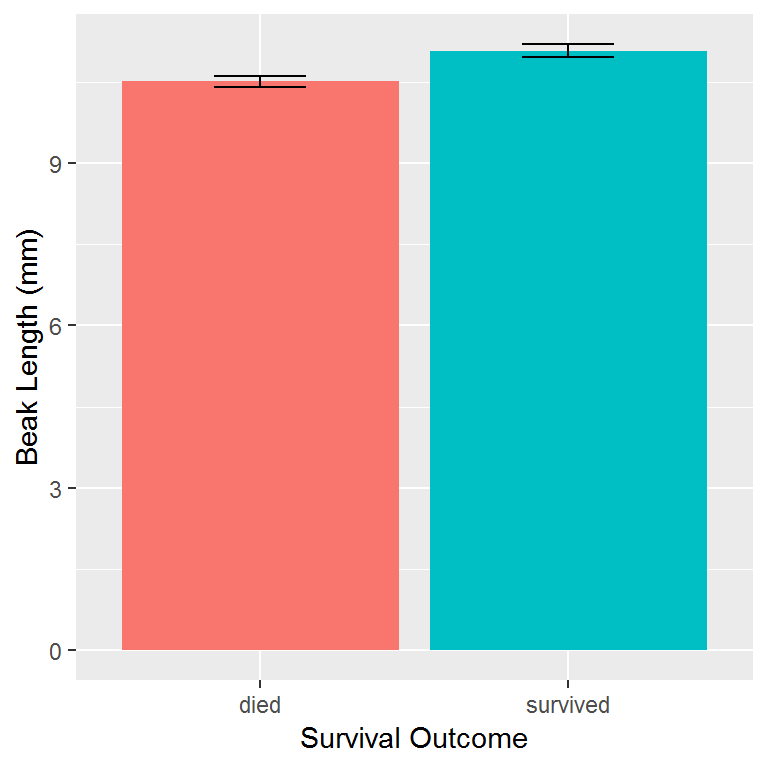
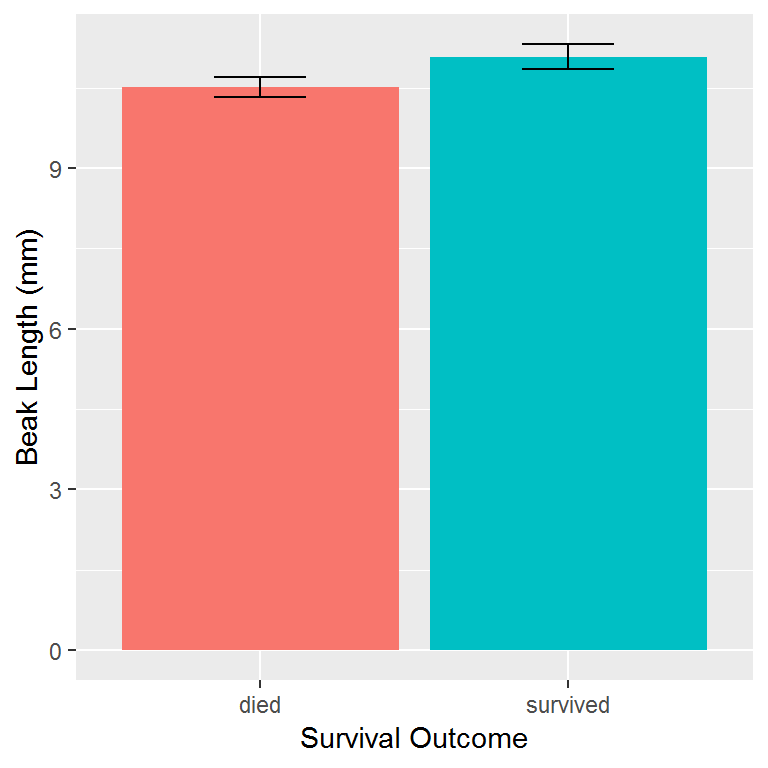
Fix confidence interval calculations

diff --git a/lab1_3_finch.html b/lab1_3_finch.html
@@ -339,12 +339,12 @@ Did beak length vary between birds that survived the drough and those that did n
 <div class="sourceCode" id="cb2"><pre class="sourceCode r"><code class="sourceCode r"><a class="sourceLine" id="cb2-1" data-line-number="1"><span class="kw">library</span>(readxl)                <span class="co"># load readxl, for reading Excel files</span></a>
 <a class="sourceLine" id="cb2-2" data-line-number="2"><span class="kw">library</span>(tidyverse)             <span class="co"># load tidyverse, for working with datasets</span></a></code></pre></div>
 <pre><code>## Warning: package &#39;tidyverse&#39; was built under R version 3.5.1</code></pre>
-<pre><code>## -- Attaching packages ---------------------- tidyverse 1.2.1 --</code></pre>
+<pre><code>## -- Attaching packages ---------------------------------------------------- tidyverse 1.2.1 --</code></pre>
 <pre><code>## v ggplot2 2.2.1.9000     v purrr   0.2.5     
 ## v tibble  1.4.2          v dplyr   0.7.5     
 ## v tidyr   0.8.1          v stringr 1.3.1     
 ## v readr   1.1.1          v forcats 0.3.0</code></pre>
-<pre><code>## -- Conflicts ------------------------- tidyverse_conflicts() --
+<pre><code>## -- Conflicts ------------------------------------------------------- tidyverse_conflicts() --
 ## x dplyr::filter() masks stats::filter()
 ## x dplyr::lag()    masks stats::lag()</code></pre>
 <p>Put your cursor on the first line and type Cmd+Enter to run it. The cursor automatically moves to the next line, so you can type Cmd+Enter again to run the next line.</p>
@@ -460,18 +460,21 @@ Did beak length vary between birds that survived the drough and those that did n
 ##  3rd Qu.:20.00   3rd Qu.:11.25   3rd Qu.:10.100   3rd Qu.: 9.055  
 ##  Max.   :21.06   Max.   :12.73   Max.   :11.210   Max.   :10.070</code></pre>
 <p>If we want to do anything more than, then we need to use functions provided in the tidyverse to summarize the data. The following code will summarize a dataset by calculating the mean, standard deviation and standard error of the mean (SEM) of the <code>beak_length</code> variable.</p>
-<div class="sourceCode" id="cb18"><pre class="sourceCode r"><code class="sourceCode r"><a class="sourceLine" id="cb18-1" data-line-number="1">summary &lt;-<span class="st"> </span>finches <span class="op">%&gt;%</span><span class="st"> </span></a>
-<a class="sourceLine" id="cb18-2" data-line-number="2"><span class="st">  </span><span class="kw">summarize</span>(<span class="dt">mean =</span> <span class="kw">mean</span>(beak_length),</a>
-<a class="sourceLine" id="cb18-3" data-line-number="3">            <span class="dt">sd =</span> <span class="kw">sd</span>(beak_length),</a>
-<a class="sourceLine" id="cb18-4" data-line-number="4">            <span class="dt">n =</span> <span class="kw">n</span>()) <span class="op">%&gt;%</span><span class="st"> </span></a>
-<a class="sourceLine" id="cb18-5" data-line-number="5"><span class="st">  </span><span class="kw">mutate</span>(<span class="dt">sem =</span> sd <span class="op">/</span><span class="st"> </span><span class="kw">sqrt</span>(n),</a>
-<a class="sourceLine" id="cb18-6" data-line-number="6">         <span class="dt">upper =</span> mean <span class="op">+</span><span class="st"> </span>sem,</a>
-<a class="sourceLine" id="cb18-7" data-line-number="7">         <span class="dt">lower =</span> mean <span class="op">-</span><span class="st"> </span>sem)</a>
-<a class="sourceLine" id="cb18-8" data-line-number="8">summary</a></code></pre></div>
+<div class="sourceCode" id="cb18"><pre class="sourceCode r"><code class="sourceCode r"><a class="sourceLine" id="cb18-1" data-line-number="1"><span class="co"># summarize the entire dataset</span></a>
+<a class="sourceLine" id="cb18-2" data-line-number="2">summary &lt;-<span class="st"> </span></a>
+<a class="sourceLine" id="cb18-3" data-line-number="3"><span class="st">  </span>finches <span class="op">%&gt;%</span><span class="st"> </span></a>
+<a class="sourceLine" id="cb18-4" data-line-number="4"><span class="st">  </span><span class="kw">summarize</span>(<span class="dt">mean =</span> <span class="kw">mean</span>(beak_length),</a>
+<a class="sourceLine" id="cb18-5" data-line-number="5">            <span class="dt">sd =</span> <span class="kw">sd</span>(beak_length),</a>
+<a class="sourceLine" id="cb18-6" data-line-number="6">            <span class="dt">n =</span> <span class="kw">n</span>()) <span class="op">%&gt;%</span><span class="st"> </span></a>
+<a class="sourceLine" id="cb18-7" data-line-number="7"><span class="st">  </span><span class="kw">mutate</span>(<span class="dt">sem =</span> sd <span class="op">/</span><span class="st"> </span><span class="kw">sqrt</span>(n),</a>
+<a class="sourceLine" id="cb18-8" data-line-number="8">         <span class="dt">upper =</span> mean <span class="op">+</span><span class="st"> </span><span class="fl">1.96</span> <span class="op">*</span><span class="st"> </span>sem,</a>
+<a class="sourceLine" id="cb18-9" data-line-number="9">         <span class="dt">lower =</span> mean <span class="op">-</span><span class="st"> </span><span class="fl">1.96</span> <span class="op">*</span><span class="st"> </span>sem)</a>
+<a class="sourceLine" id="cb18-10" data-line-number="10"></a>
+<a class="sourceLine" id="cb18-11" data-line-number="11">summary</a></code></pre></div>
 <pre><code>## # A tibble: 1 x 6
 ##    mean    sd     n    sem upper lower
 ##   &lt;dbl&gt; &lt;dbl&gt; &lt;int&gt;  &lt;dbl&gt; &lt;dbl&gt; &lt;dbl&gt;
-## 1  10.8 0.819   100 0.0819  10.9  10.7</code></pre>
+## 1  10.8 0.819   100 0.0819  11.0  10.6</code></pre>
 <p>If we wanted to get separate summaries for different subsets of the data, we can add the <code>group_by()</code> function like this:</p>
 <div class="sourceCode" id="cb20"><pre class="sourceCode r"><code class="sourceCode r"><a class="sourceLine" id="cb20-1" data-line-number="1">grouped_summary &lt;-<span class="st"> </span>finches <span class="op">%&gt;%</span><span class="st"> </span></a>
 <a class="sourceLine" id="cb20-2" data-line-number="2"><span class="st">  </span><span class="kw">group_by</span>(outcome) <span class="op">%&gt;%</span><span class="st"> </span></a>
@@ -479,14 +482,14 @@ Did beak length vary between birds that survived the drough and those that did n
 <a class="sourceLine" id="cb20-4" data-line-number="4">            <span class="dt">sd =</span> <span class="kw">sd</span>(beak_length),</a>
 <a class="sourceLine" id="cb20-5" data-line-number="5">            <span class="dt">n =</span> <span class="kw">n</span>()) <span class="op">%&gt;%</span><span class="st"> </span></a>
 <a class="sourceLine" id="cb20-6" data-line-number="6"><span class="st">  </span><span class="kw">mutate</span>(<span class="dt">sem =</span> sd <span class="op">/</span><span class="st"> </span><span class="kw">sqrt</span>(n),</a>
-<a class="sourceLine" id="cb20-7" data-line-number="7">         <span class="dt">upper =</span> mean <span class="op">+</span><span class="st"> </span>sem,</a>
-<a class="sourceLine" id="cb20-8" data-line-number="8">         <span class="dt">lower =</span> mean <span class="op">-</span><span class="st"> </span>sem)</a>
+<a class="sourceLine" id="cb20-7" data-line-number="7">         <span class="dt">upper =</span> mean <span class="op">+</span><span class="st"> </span><span class="fl">1.96</span> <span class="op">*</span><span class="st"> </span>sem,</a>
+<a class="sourceLine" id="cb20-8" data-line-number="8">         <span class="dt">lower =</span> mean <span class="op">-</span><span class="st"> </span><span class="fl">1.96</span> <span class="op">*</span><span class="st"> </span>sem)</a>
 <a class="sourceLine" id="cb20-9" data-line-number="9">grouped_summary</a></code></pre></div>
 <pre><code>## # A tibble: 2 x 7
 ##   outcome   mean    sd     n    sem upper lower
 ##   &lt;chr&gt;    &lt;dbl&gt; &lt;dbl&gt; &lt;int&gt;  &lt;dbl&gt; &lt;dbl&gt; &lt;dbl&gt;
-## 1 died      10.5 0.698    50 0.0987  10.6  10.4
-## 2 survived  11.1 0.840    50 0.119   11.2  11.0</code></pre>
+## 1 died      10.5 0.698    50 0.0987  10.7  10.3
+## 2 survived  11.1 0.840    50 0.119   11.3  10.8</code></pre>
 <p>To plot these means and confidence intervals, you can use a bar chart with the <code>geom_col()</code> and <code>geom_errorbar()</code> functions in ggplot:</p>
 <div class="sourceCode" id="cb22"><pre class="sourceCode r"><code class="sourceCode r"><a class="sourceLine" id="cb22-1" data-line-number="1"><span class="kw">ggplot</span>(</a>
 <a class="sourceLine" id="cb22-2" data-line-number="2">  <span class="dt">data =</span> grouped_summary, </a>

diff --git a/lab1_2_calc.html b/lab1_2_calc.html
@@ -392,12 +392,12 @@ RStudio starts with three panes.
 <a class="sourceLine" id="cb43-2" data-line-number="2">sem</a></code></pre></div>
 <pre><code>## [1] 1.565759</code></pre>
 <p>Once you have calculated the SEM you can use it to estimate the upper and lower limits of a 95% confidence interval like this:</p>
-<div class="sourceCode" id="cb45"><pre class="sourceCode r"><code class="sourceCode r"><a class="sourceLine" id="cb45-1" data-line-number="1"><span class="kw">mean</span>(x) <span class="op">+</span><span class="st"> </span><span class="dv">2</span> <span class="op">*</span><span class="st"> </span>sem  <span class="co"># upper limit</span></a></code></pre></div>
-<pre><code>## [1] 7.671517</code></pre>
-<div class="sourceCode" id="cb47"><pre class="sourceCode r"><code class="sourceCode r"><a class="sourceLine" id="cb47-1" data-line-number="1"><span class="kw">mean</span>(x) <span class="op">-</span><span class="st"> </span><span class="dv">2</span> <span class="op">*</span><span class="st"> </span>sem  <span class="co"># lower limit</span></a></code></pre></div>
-<pre><code>## [1] 1.408483</code></pre>
-<div class="sourceCode" id="cb49"><pre class="sourceCode r"><code class="sourceCode r"><a class="sourceLine" id="cb49-1" data-line-number="1"><span class="kw">c</span>(<span class="kw">mean</span>(x) <span class="op">+</span><span class="st"> </span><span class="dv">2</span> <span class="op">*</span><span class="st"> </span>sem, <span class="kw">mean</span>(x) <span class="op">-</span><span class="st"> </span><span class="dv">2</span> <span class="op">*</span><span class="st"> </span>sem)</a></code></pre></div>
-<pre><code>## [1] 7.671517 1.408483</code></pre>
+<div class="sourceCode" id="cb45"><pre class="sourceCode r"><code class="sourceCode r"><a class="sourceLine" id="cb45-1" data-line-number="1"><span class="kw">mean</span>(x) <span class="op">+</span><span class="st"> </span><span class="fl">1.96</span> <span class="op">*</span><span class="st"> </span>sem  <span class="co"># upper limit</span></a></code></pre></div>
+<pre><code>## [1] 7.608887</code></pre>
+<div class="sourceCode" id="cb47"><pre class="sourceCode r"><code class="sourceCode r"><a class="sourceLine" id="cb47-1" data-line-number="1"><span class="kw">mean</span>(x) <span class="op">-</span><span class="st"> </span><span class="fl">1.96</span> <span class="op">*</span><span class="st"> </span>sem  <span class="co"># lower limit</span></a></code></pre></div>
+<pre><code>## [1] 1.471113</code></pre>
+<div class="sourceCode" id="cb49"><pre class="sourceCode r"><code class="sourceCode r"><a class="sourceLine" id="cb49-1" data-line-number="1"><span class="kw">c</span>(<span class="kw">mean</span>(x) <span class="op">+</span><span class="st"> </span><span class="fl">1.96</span> <span class="op">*</span><span class="st"> </span>sem, <span class="kw">mean</span>(x) <span class="op">-</span><span class="st"> </span><span class="fl">1.96</span> <span class="op">*</span><span class="st"> </span>sem)</a></code></pre></div>
+<pre><code>## [1] 7.608887 1.471113</code></pre>
 </div>
 <div id="self-assessment" class="section level3">
 <h3>Self-Assessment</h3>
